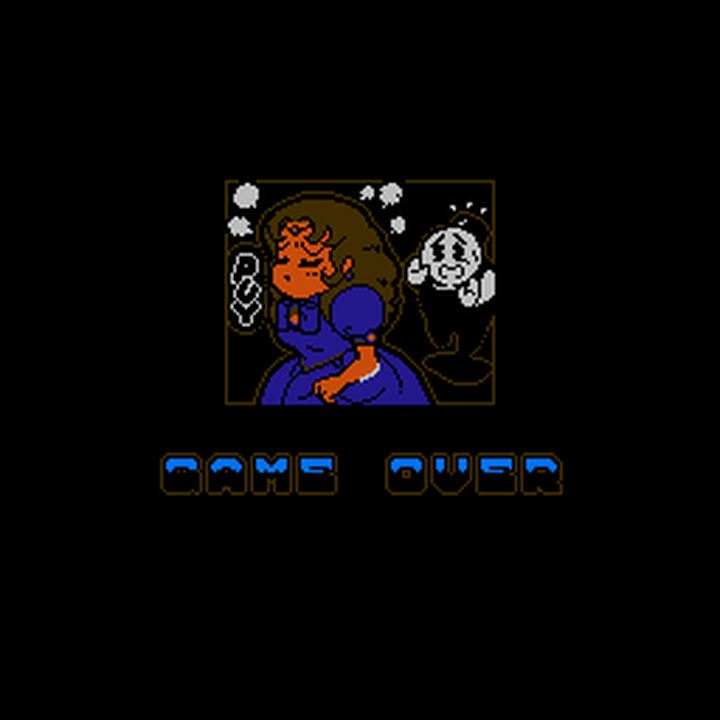
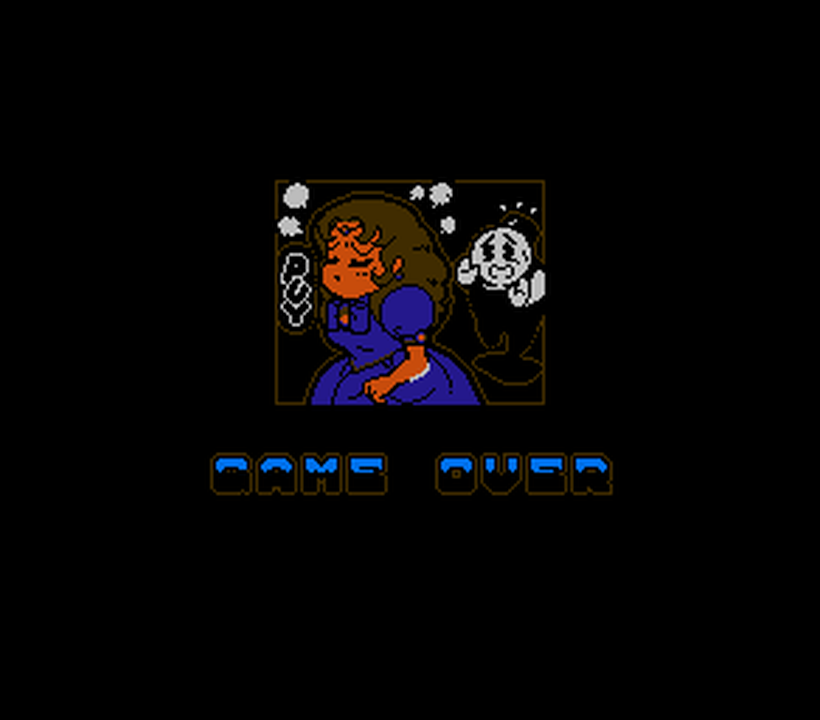
Fix the gameover img problem

Changed region(s): [[0.3056, 0.2444, 0.7028, 0.5806], [0.5194, 0.6111, 0.7944, 0.7028], [0.2139, 0.6111, 0.4889, 0.7028]]

diff --git a/src/AppUpdate.cpp b/src/AppUpdate.cpp
@@ -38,9 +38,9 @@ void App::Update() {
             LOG_INFO("Setting overlay to: {}, frame: {}", path, currentFrame);
             m_Overlay->SetImage(path);
             m_Overlay->m_Transform.translation = {0.0f, 0.0f}; // 確保居中
-            m_Overlay->m_Transform.scale = {720.0f, 720.0f};
-            m_Overlay->SetZIndex(10000);
+            m_Overlay->m_Transform.scale = {1.0f, 1.0f};
             m_Overlay->SetVisible(true);
+            m_Overlay->SetZIndex(10);
             lastFrame = currentFrame;
         }
     }
@@ -156,11 +156,11 @@ void App::SetState(State state) {
         GameWorld::GetObjects().clear();
 
         // 設置初始圖片並確保位置與可見性
-        std::string initialImage = RESOURCE_DIR "/Image/Background/Game_Over_1.png";
+        std::string initialImage = RESOURCE_DIR "/Image/Background/black/black50.png";
         LOG_INFO("Setting fresh overlay to: {}", initialImage);
         m_Overlay->SetImage(initialImage);
         m_Overlay->m_Transform.scale = {720.0f, 720.0f};
-        m_Overlay->SetZIndex(10000);
+        m_Overlay->SetZIndex(10);
         m_Overlay->SetVisible(true);
     }
 }

diff --git a/src/AppStart.cpp b/src/AppStart.cpp
@@ -23,7 +23,7 @@ void App::Start() {
     // 初始化覆蓋層
     m_Overlay = std::make_shared<BackgroundImage>();
     m_Overlay->SetImage(RESOURCE_DIR "/Image/Background/black/black255.png");
-    m_Overlay->m_Transform.scale = {720.0f, 720.0f}; // 設置縮放
+    m_Overlay->m_Transform.scale = {1.0f, 1.0f}; // 設置縮放
     m_Overlay->SetZIndex(5); // 設置 Z 軸順序
     m_Root.AddChild(m_Overlay);
 

diff --git a/include/RedDemon.hpp b/include/RedDemon.hpp
@@ -10,7 +10,7 @@ public:
     enum class State { STAND, WALK, JUMP, FALL, DIE }; // 新增狀態機
 
 private:
-    float m_speed = 150.0f;
+    float m_speed = 180.0f;
     float m_JumpVelocity = 0.0f;
     const float m_JumpInitialVelocity = 450.0f;
     const float m_Gravity = -800.0f;

diff --git a/include/Nick.hpp b/include/Nick.hpp
@@ -40,7 +40,7 @@ private:
     const float m_InvincibleDuration = 2.0f;
     float m_BlinkTimer = 0.0f;
     const float m_BlinkInterval = 0.2f;
-    int m_Lives = 1;
+    int m_Lives = 3;
 
     float m_DeathVelocity = 0.0f;
     const float m_DeathInitialVelocity = 100.0f;

diff --git a/include/App.hpp b/include/App.hpp
@@ -77,7 +77,7 @@ private:
     const float m_FadeDuration = 4.0f;
     bool m_FadingIn = true;
     float m_GameOverTimer = 0.0f;
-    const float m_GameOverDuration = 1.0f;
+    const float m_GameOverDuration = 0.1f;
 
     std::vector<LevelConfig> m_LevelConfigs;
 };
